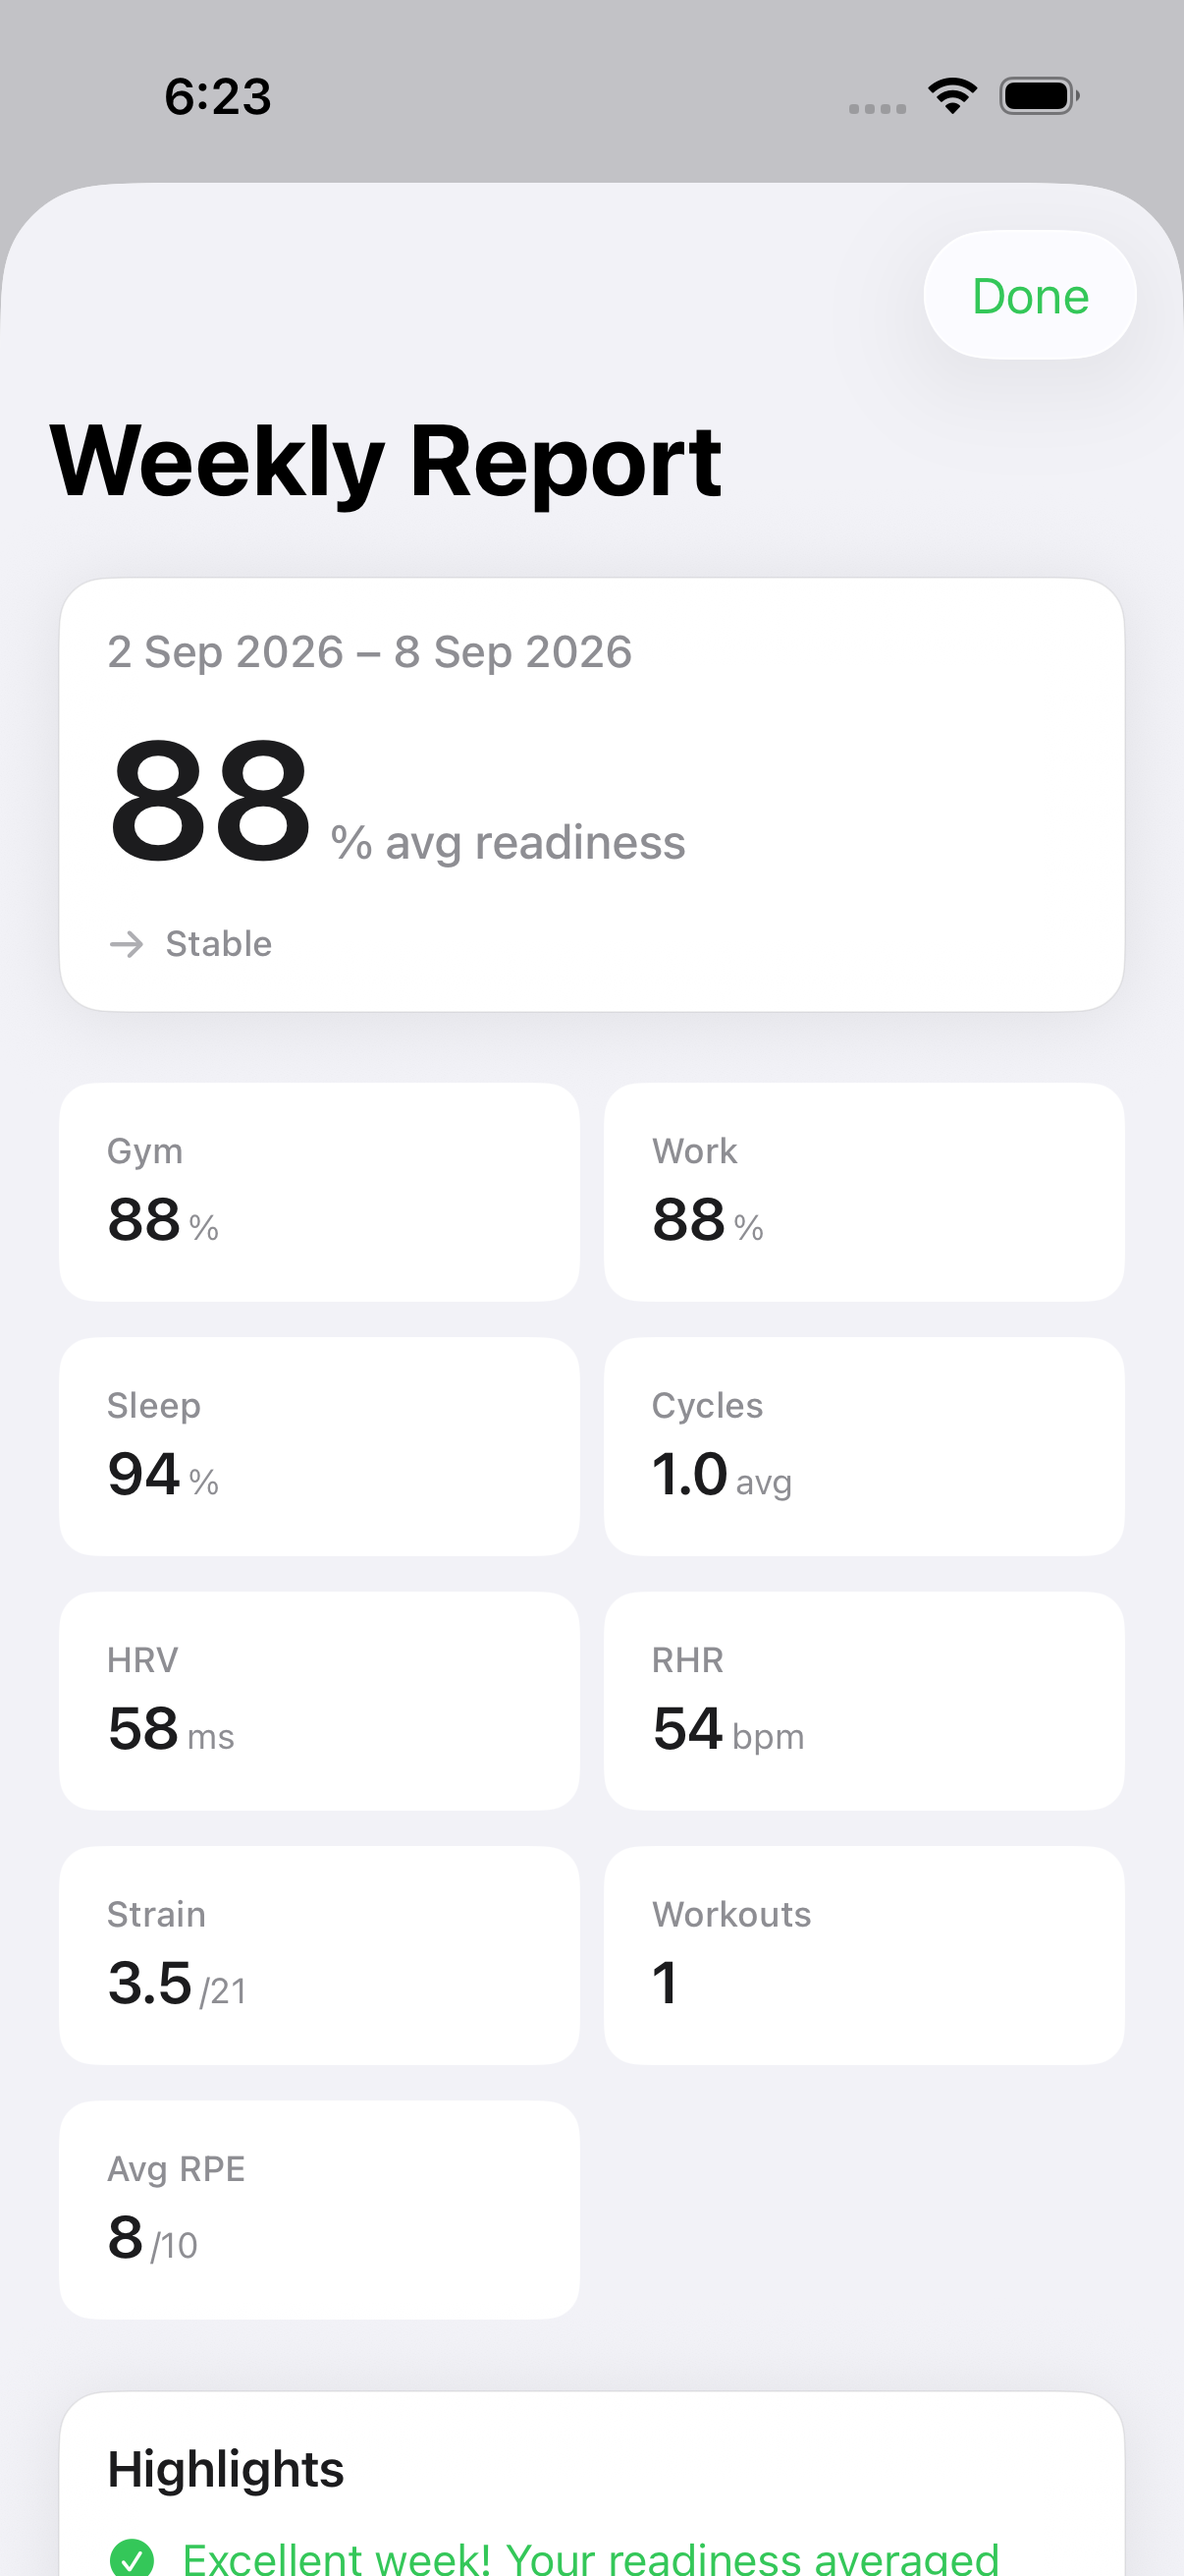
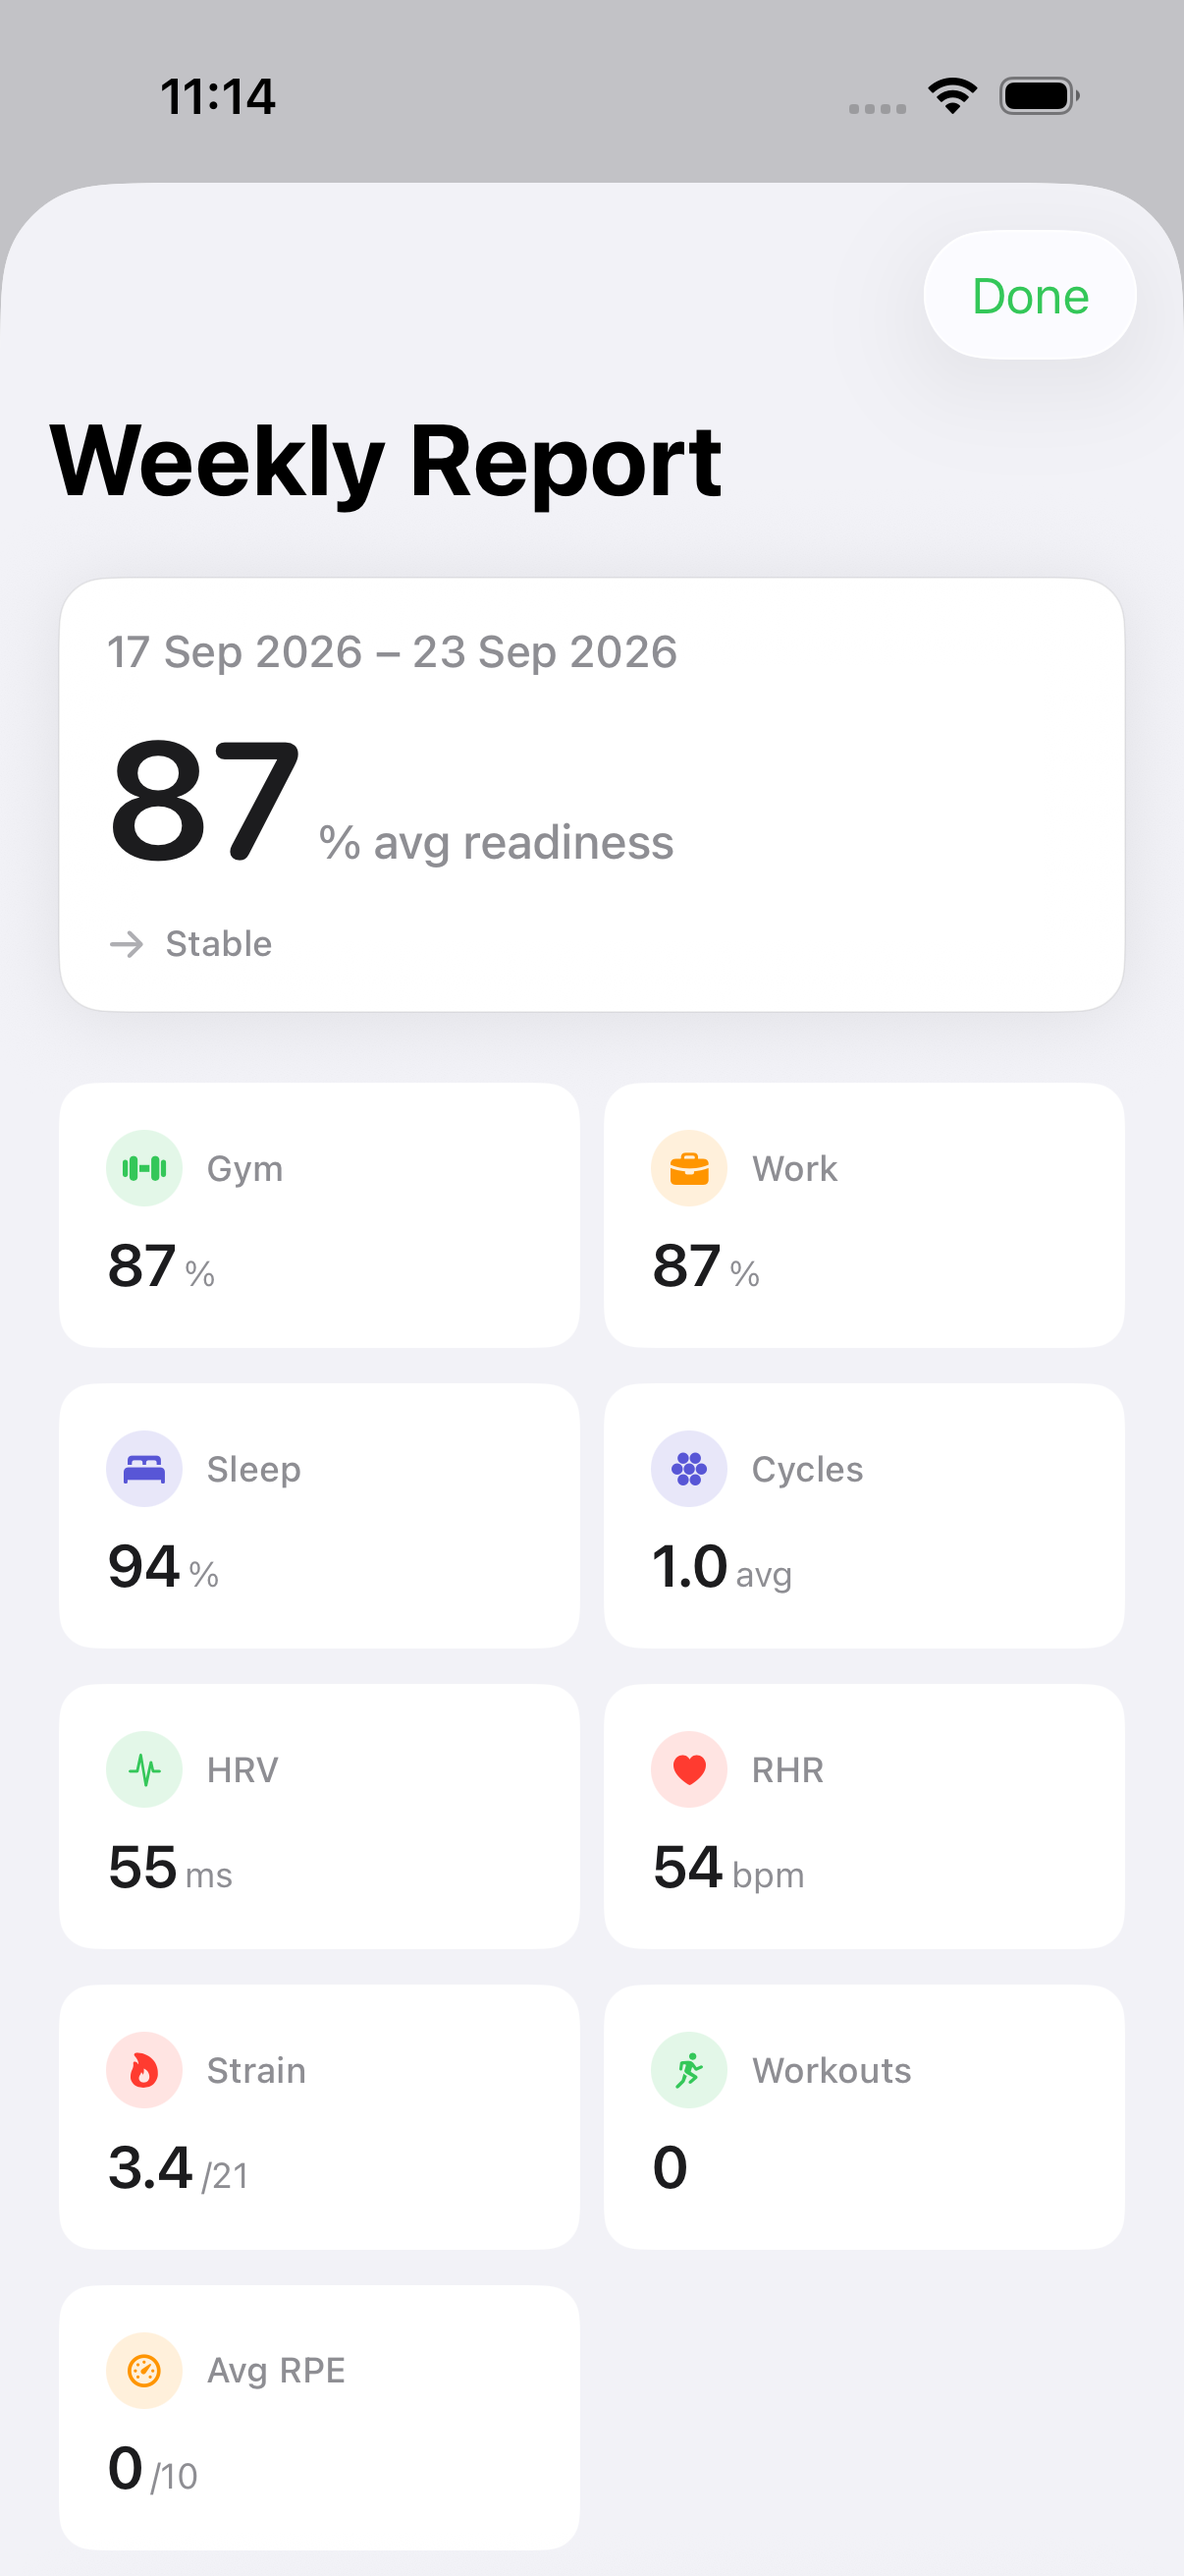
feat(history): Apple Weekly Report metric tile wells (Honest #68) (#86)
Circular tint SF Symbol wells on Weekly Report stat tiles plus Highlights
and Recommendations rows.

diff --git a/ReadinessTracker/Views/WeeklyReportView.swift b/ReadinessTracker/Views/WeeklyReportView.swift
@@ -75,17 +75,17 @@ struct WeeklyReportView: View {
         let columns = [GridItem(.flexible()), GridItem(.flexible())]
 
         return LazyVGrid(columns: columns, spacing: 12) {
-            StatGridItem(label: "Gym", value: "\(Int(report.avgGymScore))", unit: "%", trend: nil)
-            StatGridItem(label: "Work", value: "\(Int(report.avgWorkScore))", unit: "%", trend: nil)
-            StatGridItem(label: "Sleep", value: "\(Int(report.avgSleepScore))", unit: "%", trend: nil)
+            StatGridItem(label: "Gym", value: "\(Int(report.avgGymScore))", unit: "%", trend: nil, icon: "dumbbell.fill", tint: RTColor.optimal)
+            StatGridItem(label: "Work", value: "\(Int(report.avgWorkScore))", unit: "%", trend: nil, icon: "briefcase.fill", tint: RTColor.caution)
+            StatGridItem(label: "Sleep", value: "\(Int(report.avgSleepScore))", unit: "%", trend: nil, icon: "bed.double.fill", tint: RTColor.sleep)
             if let cycles = report.avgSleepCycles {
-                StatGridItem(label: "Cycles", value: String(format: "%.1f", cycles), unit: "avg", trend: nil)
+                StatGridItem(label: "Cycles", value: String(format: "%.1f", cycles), unit: "avg", trend: nil, icon: "circle.hexagongrid.fill", tint: RTColor.sleep)
             }
-            StatGridItem(label: "HRV", value: "\(Int(report.avgHRV))", unit: "ms", trend: nil)
-            StatGridItem(label: "RHR", value: "\(Int(report.avgRHR))", unit: "bpm", trend: nil)
-            StatGridItem(label: "Strain", value: String(format: "%.1f", report.avgStrain), unit: "/21", trend: nil)
-            StatGridItem(label: "Workouts", value: "\(report.totalWorkouts)", unit: "", trend: nil)
-            StatGridItem(label: "Avg RPE", value: "\(Int(report.avgWorkoutRPE))", unit: "/10", trend: nil)
+            StatGridItem(label: "HRV", value: "\(Int(report.avgHRV))", unit: "ms", trend: nil, icon: "waveform.path.ecg", tint: RTColor.hrv)
+            StatGridItem(label: "RHR", value: "\(Int(report.avgRHR))", unit: "bpm", trend: nil, icon: "heart.fill", tint: RTColor.warning)
+            StatGridItem(label: "Strain", value: String(format: "%.1f", report.avgStrain), unit: "/21", trend: nil, icon: "flame.fill", tint: RTColor.strain)
+            StatGridItem(label: "Workouts", value: "\(report.totalWorkouts)", unit: "", trend: nil, icon: "figure.run", tint: RTColor.optimal)
+            StatGridItem(label: "Avg RPE", value: "\(Int(report.avgWorkoutRPE))", unit: "/10", trend: nil, icon: "gauge.with.dots.needle.67percent", tint: RTColor.caution)
         }
     }
 
@@ -100,9 +100,18 @@ struct WeeklyReportView: View {
 
                     VStack(alignment: .leading, spacing: 8) {
                         ForEach(report.highlights, id: \.self) { highlight in
-                            Label(highlight, systemImage: "checkmark.circle.fill")
-                                .font(.subheadline)
-                                .foregroundStyle(RTColor.optimal)
+                            HStack(alignment: .top, spacing: 10) {
+                                Image(systemName: "checkmark")
+                                    .font(.system(size: 11, weight: .bold))
+                                    .foregroundStyle(RTColor.optimal)
+                                    .frame(width: 26, height: 26)
+                                    .background(RTColor.optimal.opacity(0.14))
+                                    .clipShape(Circle())
+                                Text(highlight)
+                                    .font(.subheadline)
+                                    .foregroundStyle(RTColor.primaryText)
+                                    .fixedSize(horizontal: false, vertical: true)
+                            }
                         }
                     }
                 }
@@ -122,9 +131,18 @@ struct WeeklyReportView: View {
 
                     VStack(alignment: .leading, spacing: 8) {
                         ForEach(report.recommendations, id: \.self) { rec in
-                            Label(rec, systemImage: "lightbulb.fill")
-                                .font(.subheadline)
-                                .foregroundStyle(RTColor.caution)
+                            HStack(alignment: .top, spacing: 10) {
+                                Image(systemName: "lightbulb.fill")
+                                    .font(.system(size: 11, weight: .semibold))
+                                    .foregroundStyle(RTColor.caution)
+                                    .frame(width: 26, height: 26)
+                                    .background(RTColor.caution.opacity(0.14))
+                                    .clipShape(Circle())
+                                Text(rec)
+                                    .font(.subheadline)
+                                    .foregroundStyle(RTColor.primaryText)
+                                    .fixedSize(horizontal: false, vertical: true)
+                            }
                         }
                     }
                 }

diff --git a/ReadinessTracker/Design/AppleNativeTheme.swift b/ReadinessTracker/Design/AppleNativeTheme.swift
@@ -251,13 +251,26 @@ struct StatGridItem: View {
     let value: String
     let unit: String
     let trend: TrendDirection?
-    
+    var icon: String? = nil
+    var tint: Color = RTColor.secondaryText
+
     var body: some View {
-        VStack(alignment: .leading, spacing: 4) {
-            Text(label)
-                .font(.caption.weight(.medium))
-                .foregroundStyle(RTColor.secondaryText)
-            
+        VStack(alignment: .leading, spacing: 8) {
+            HStack(spacing: 8) {
+                if let icon {
+                    Image(systemName: icon)
+                        .font(.system(size: 11, weight: .semibold))
+                        .foregroundStyle(tint)
+                        .frame(width: 26, height: 26)
+                        .background(tint.opacity(0.14))
+                        .clipShape(Circle())
+                        .accessibilityHidden(true)
+                }
+                Text(label)
+                    .font(.caption.weight(.medium))
+                    .foregroundStyle(RTColor.secondaryText)
+            }
+
             HStack(alignment: .lastTextBaseline, spacing: 2) {
                 Text(value)
                     .font(.title3.weight(.semibold))
@@ -266,7 +279,7 @@ struct StatGridItem: View {
                     .font(.caption)
                     .foregroundStyle(RTColor.secondaryText)
             }
-            
+
             if let trend = trend {
                 CompactTrendIndicator(direction: trend, percentChange: nil)
             }

diff --git a/ReadinessTrackerUITests/SurfacesUITests.swift b/ReadinessTrackerUITests/SurfacesUITests.swift
@@ -365,6 +365,7 @@ final class SurfacesUITests: XCTestCase {
     }
 
     func testWeeklyReportSurface() throws {
+        // Honest #68: Weekly Report metric tiles use circular tint icon wells.
         // History → Weekly Report sheet: fixture seeds 14 appleWatch days (≥3 needed).
         tapMainTab("History")
         XCTAssertTrue(app.staticTexts["Weekly Report"].waitForExistence(timeout: 8))

diff --git a/.cursor/skills/verify-readiness-tracker/features/weekly-report.md b/.cursor/skills/verify-readiness-tracker/features/weekly-report.md
@@ -1,0 +1,15 @@
+# History → Weekly Report
+
+## Sub-features
+- Hero avg readiness + trend
+- Metric grid tiles with circular tint SF Symbol wells
+- Highlights / Recommendations with circular wells
+
+## How to get to it
+History → Weekly Report
+
+## Driving it with the harness
+`testWeeklyReportSurface` → `.audit/verify-weekly-report.png`
+
+## Gotchas
+Keep Gym/Work/Sleep naming; no Fitness+ invent.
